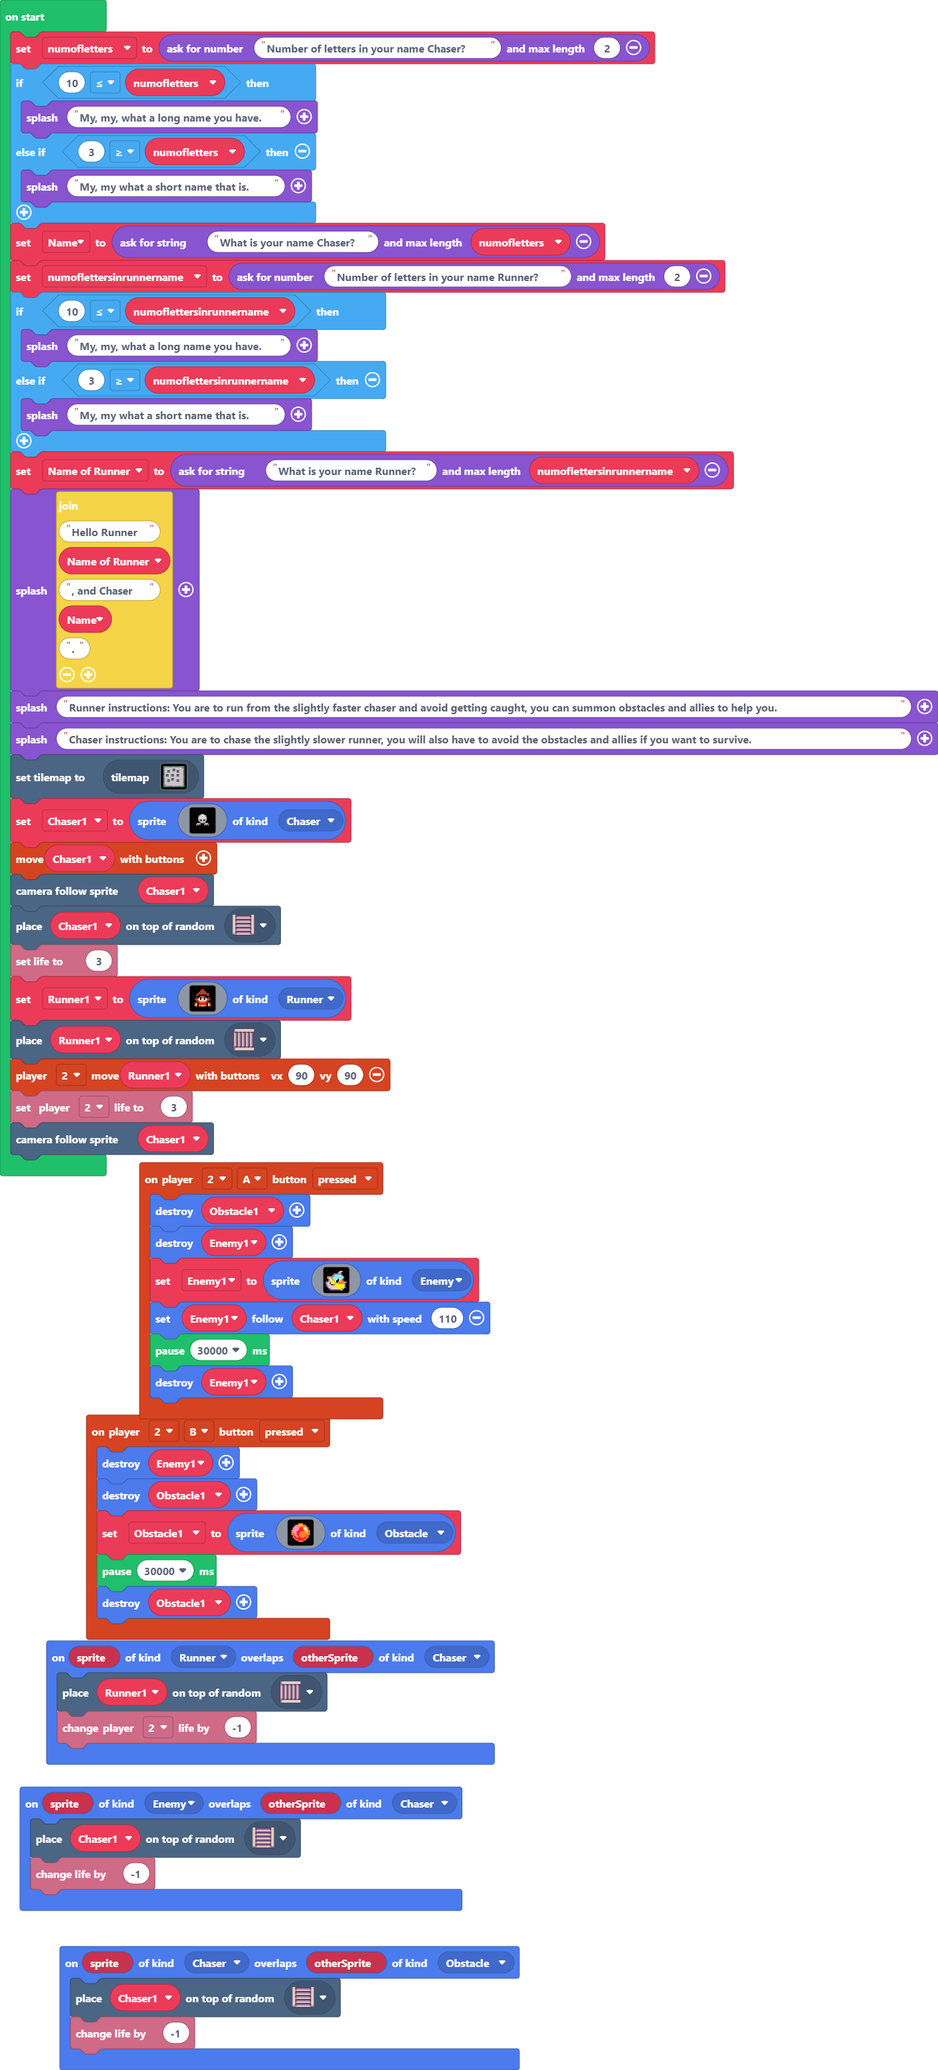
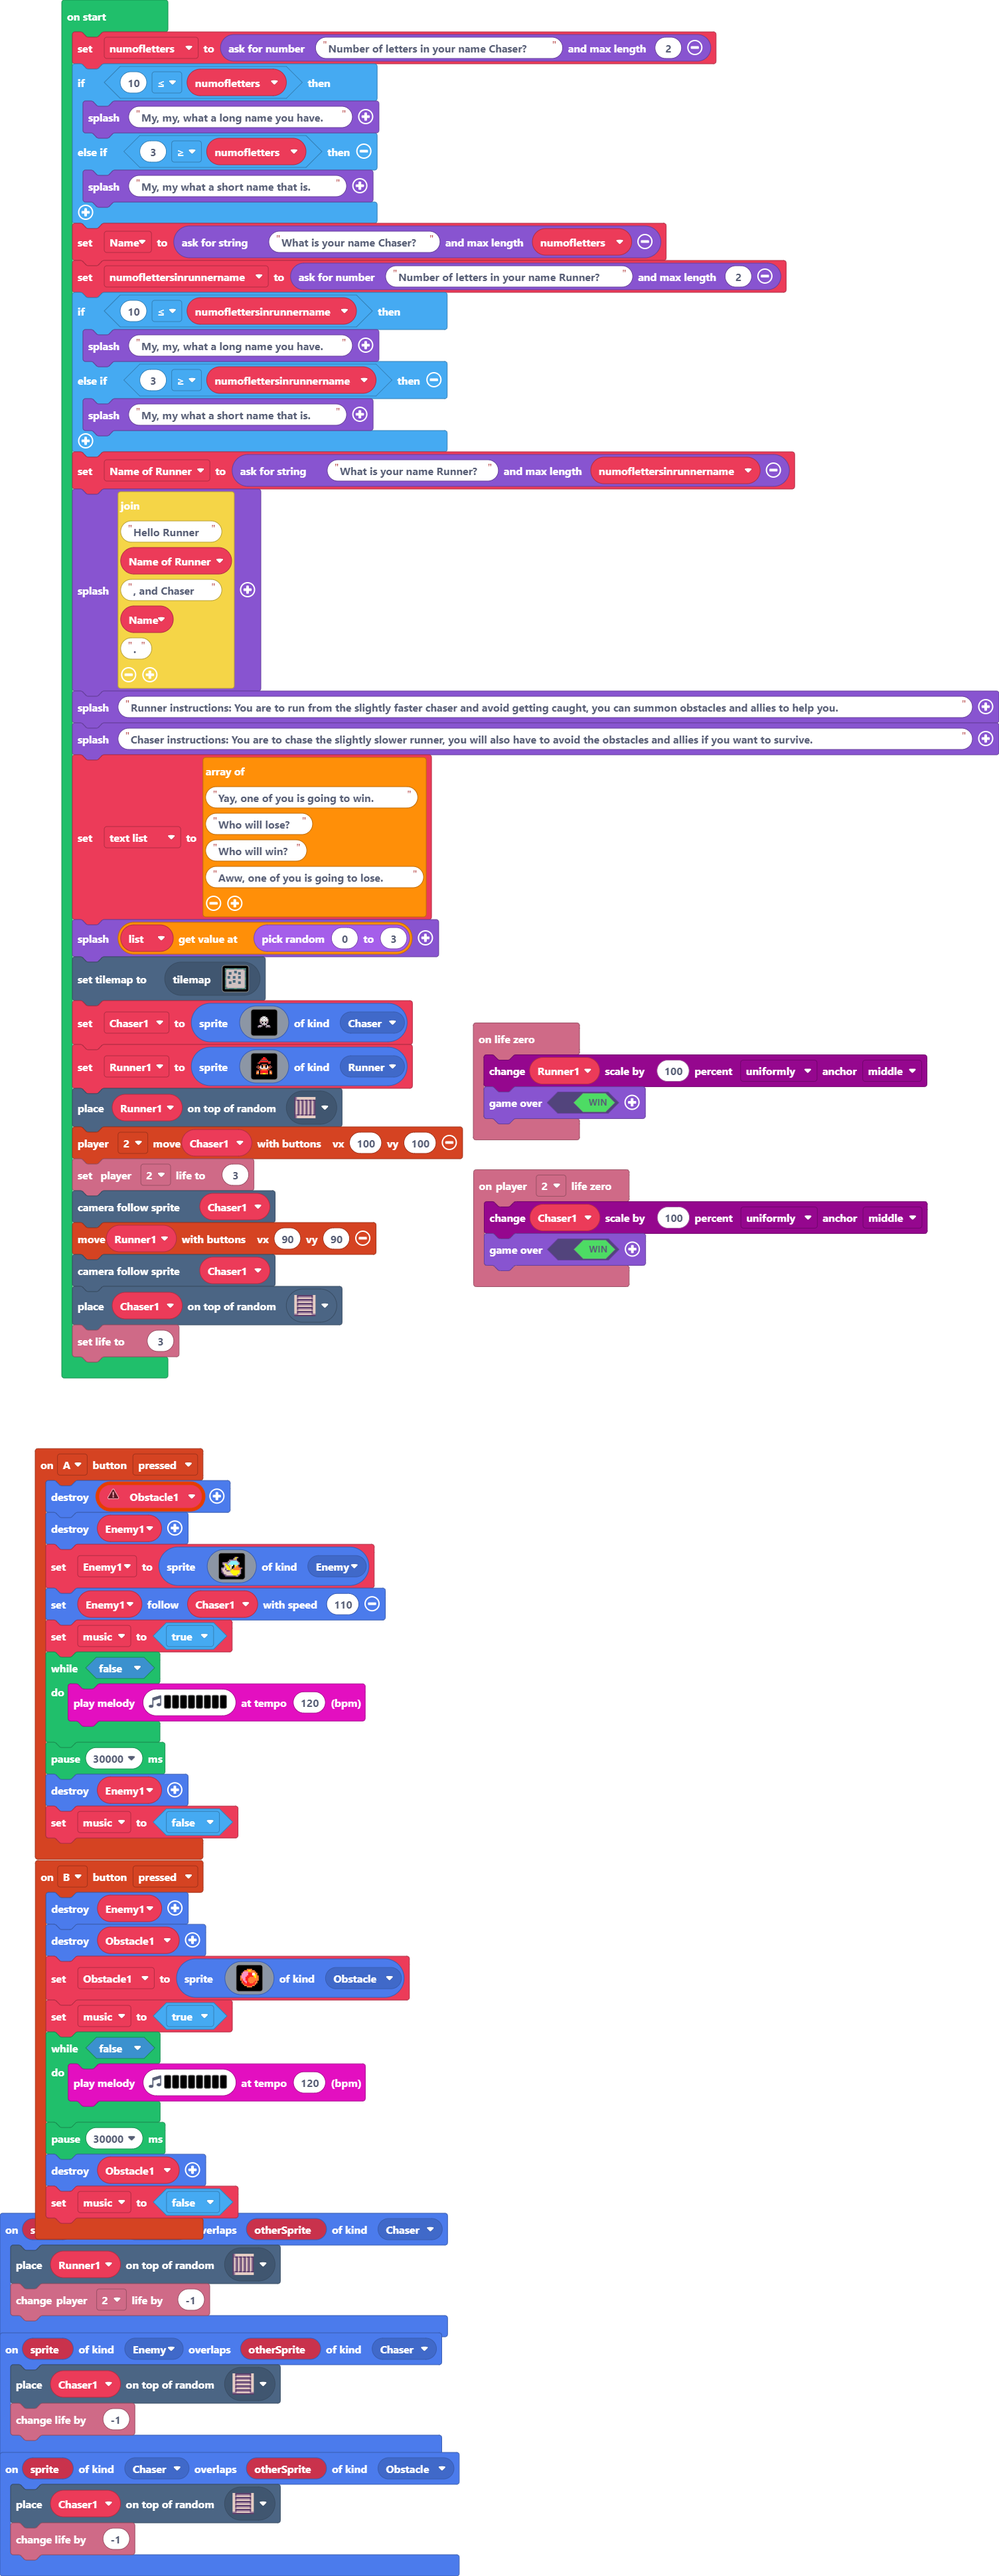
Update pxt.json, main.blocks, main.ts

diff --git a/main.ts b/main.ts
@@ -3,7 +3,7 @@ namespace SpriteKind {
     export const Runner = SpriteKind.create()
     export const Obstacle = SpriteKind.create()
 }
-controller.player2.onButtonEvent(ControllerButton.B, ControllerButtonEvent.Pressed, function () {
+controller.B.onEvent(ControllerButtonEvent.Pressed, function () {
     Enemy1.destroy()
     Obstacle1.destroy()
     Obstacle1 = sprites.create(img`
@@ -24,10 +24,15 @@ controller.player2.onButtonEvent(ControllerButton.B, ControllerButtonEvent.Press
         . . . . . . 4 4 4 4 . . . . . . 
         . . . . . . . . . . . . . . . . 
         `, SpriteKind.Obstacle)
+    music2 = true
+    while (false) {
+        music.playMelody("C5 B C5 B C5 B C5 B ", 120)
+    }
     pause(30000)
     Obstacle1.destroy()
+    music2 = false
 })
-controller.player2.onButtonEvent(ControllerButton.A, ControllerButtonEvent.Pressed, function () {
+controller.A.onEvent(ControllerButtonEvent.Pressed, function () {
     Obstacle1.destroy()
     Enemy1.destroy()
     Enemy1 = sprites.create(img`
@@ -49,25 +54,40 @@ controller.player2.onButtonEvent(ControllerButton.A, ControllerButtonEvent.Press
         . . . c c c c c c c c b b . . . 
         `, SpriteKind.Enemy)
     Enemy1.follow(Chaser1, 110)
+    music2 = true
+    while (false) {
+        music.playMelody("C5 B C5 B C5 B C5 B ", 120)
+    }
     pause(30000)
     Enemy1.destroy()
+    music2 = false
 })
 sprites.onOverlap(SpriteKind.Chaser, SpriteKind.Obstacle, function (sprite, otherSprite) {
     tiles.placeOnRandomTile(Chaser1, sprites.dungeon.stairNorth)
     info.changeLifeBy(-1)
 })
+info.onLifeZero(function () {
+    scaling.scaleByPercent(Runner1, 100, ScaleDirection.Uniformly, ScaleAnchor.Middle)
+    game.over(true)
+})
 sprites.onOverlap(SpriteKind.Enemy, SpriteKind.Chaser, function (sprite, otherSprite) {
     tiles.placeOnRandomTile(Chaser1, sprites.dungeon.stairNorth)
     info.changeLifeBy(-1)
+})
+info.player2.onLifeZero(function () {
+    scaling.scaleByPercent(Chaser1, 100, ScaleDirection.Uniformly, ScaleAnchor.Middle)
+    game.over(true)
 })
 sprites.onOverlap(SpriteKind.Runner, SpriteKind.Chaser, function (sprite, otherSprite) {
     tiles.placeOnRandomTile(Runner1, sprites.dungeon.stairEast)
     info.player2.changeLifeBy(-1)
 })
+let music2 = false
 let Obstacle1: Sprite = null
 let Enemy1: Sprite = null
 let Runner1: Sprite = null
 let Chaser1: Sprite = null
+let list: number[] = []
 let numofletters = game.askForNumber("Number of letters in your name Chaser?", 2)
 if (10 <= numofletters) {
     game.splash("My, my, what a long name you have.")
@@ -85,6 +105,13 @@ let Name_of_Runner = game.askForString("What is your name Runner?", numofletters
 game.splash("Hello Runner " + Name_of_Runner + ", and Chaser " + Name + ".")
 game.splash("Runner instructions: You are to run from the slightly faster chaser and avoid getting caught, you can summon obstacles and allies to help you.")
 game.splash("Chaser instructions: You are to chase the slightly slower runner, you will also have to avoid the obstacles and allies if you want to survive.")
+let text_list = [
+"Yay, one of you is going to win.",
+"Who will lose?",
+"Who will win?",
+"Aww, one of you is going to lose."
+]
+game.splash(list[randint(0, 3)])
 tiles.setCurrentTilemap(tilemap`level1`)
 Chaser1 = sprites.create(img`
     ........................
@@ -112,10 +139,6 @@ Chaser1 = sprites.create(img`
     ........................
     ........................
     `, SpriteKind.Chaser)
-controller.moveSprite(Chaser1)
-scene.cameraFollowSprite(Chaser1)
-tiles.placeOnRandomTile(Chaser1, sprites.dungeon.stairNorth)
-info.setLife(3)
 Runner1 = sprites.create(img`
     . . . . . . f f f f . . . . . . 
     . . . . f f f 2 2 f f f . . . . 
@@ -135,6 +158,10 @@ Runner1 = sprites.create(img`
     . . . . . f f . . f f . . . . . 
     `, SpriteKind.Runner)
 tiles.placeOnRandomTile(Runner1, sprites.dungeon.stairEast)
-controller.player2.moveSprite(Runner1, 90, 90)
+controller.player2.moveSprite(Chaser1, 100, 100)
 info.player2.setLife(3)
 scene.cameraFollowSprite(Chaser1)
+controller.moveSprite(Runner1, 90, 90)
+scene.cameraFollowSprite(Chaser1)
+tiles.placeOnRandomTile(Chaser1, sprites.dungeon.stairNorth)
+info.setLife(3)
